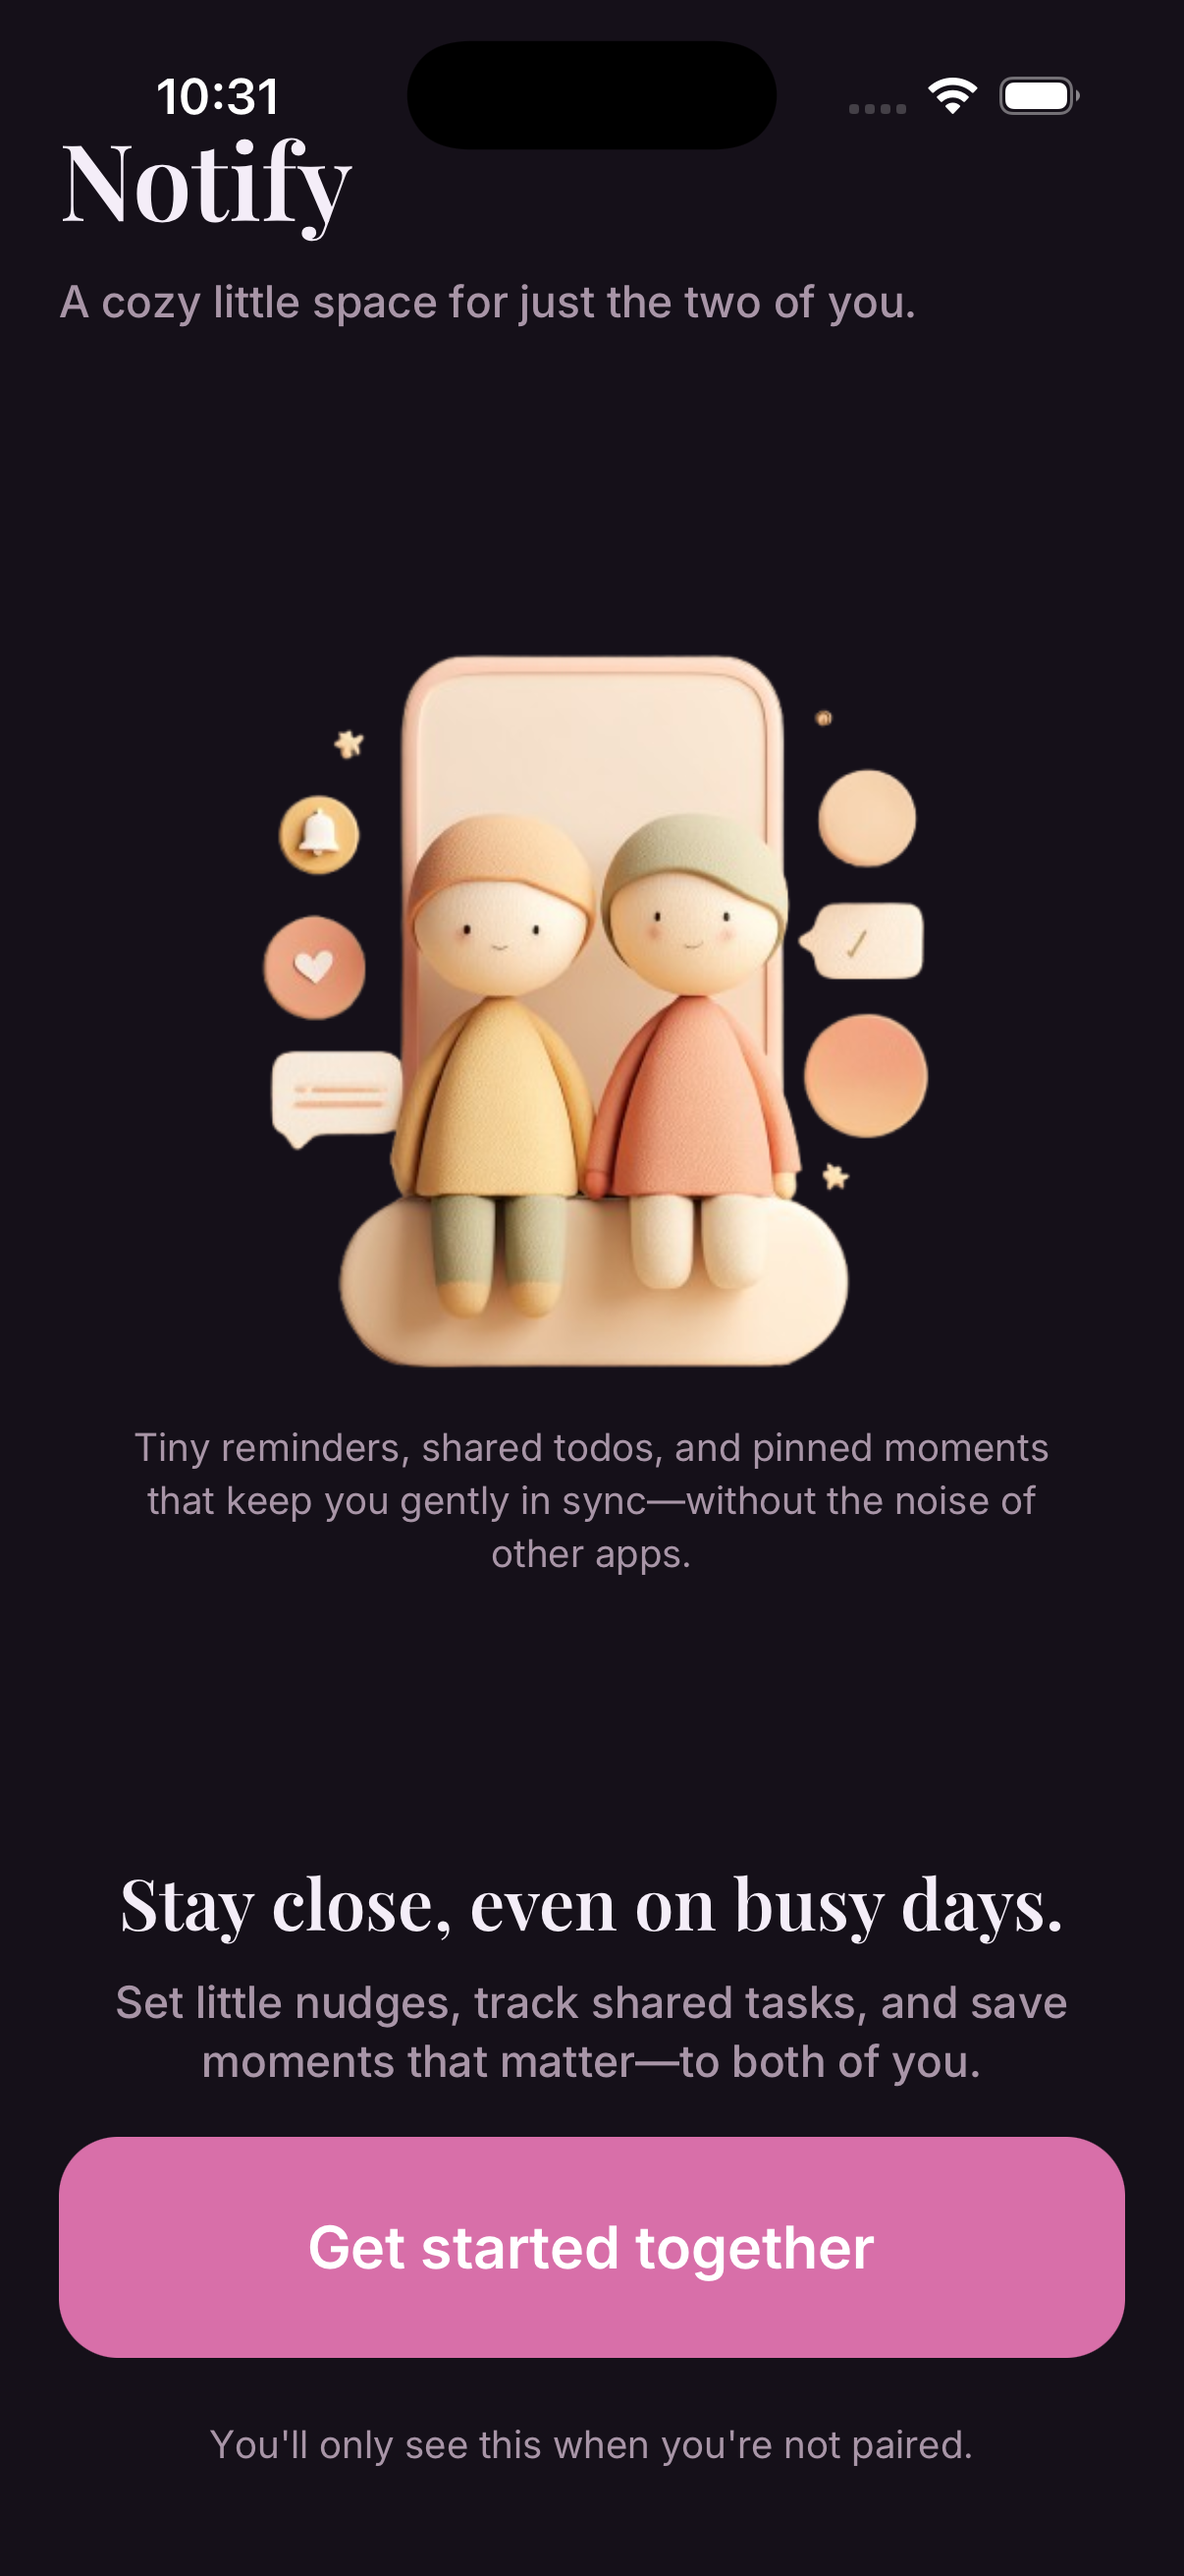
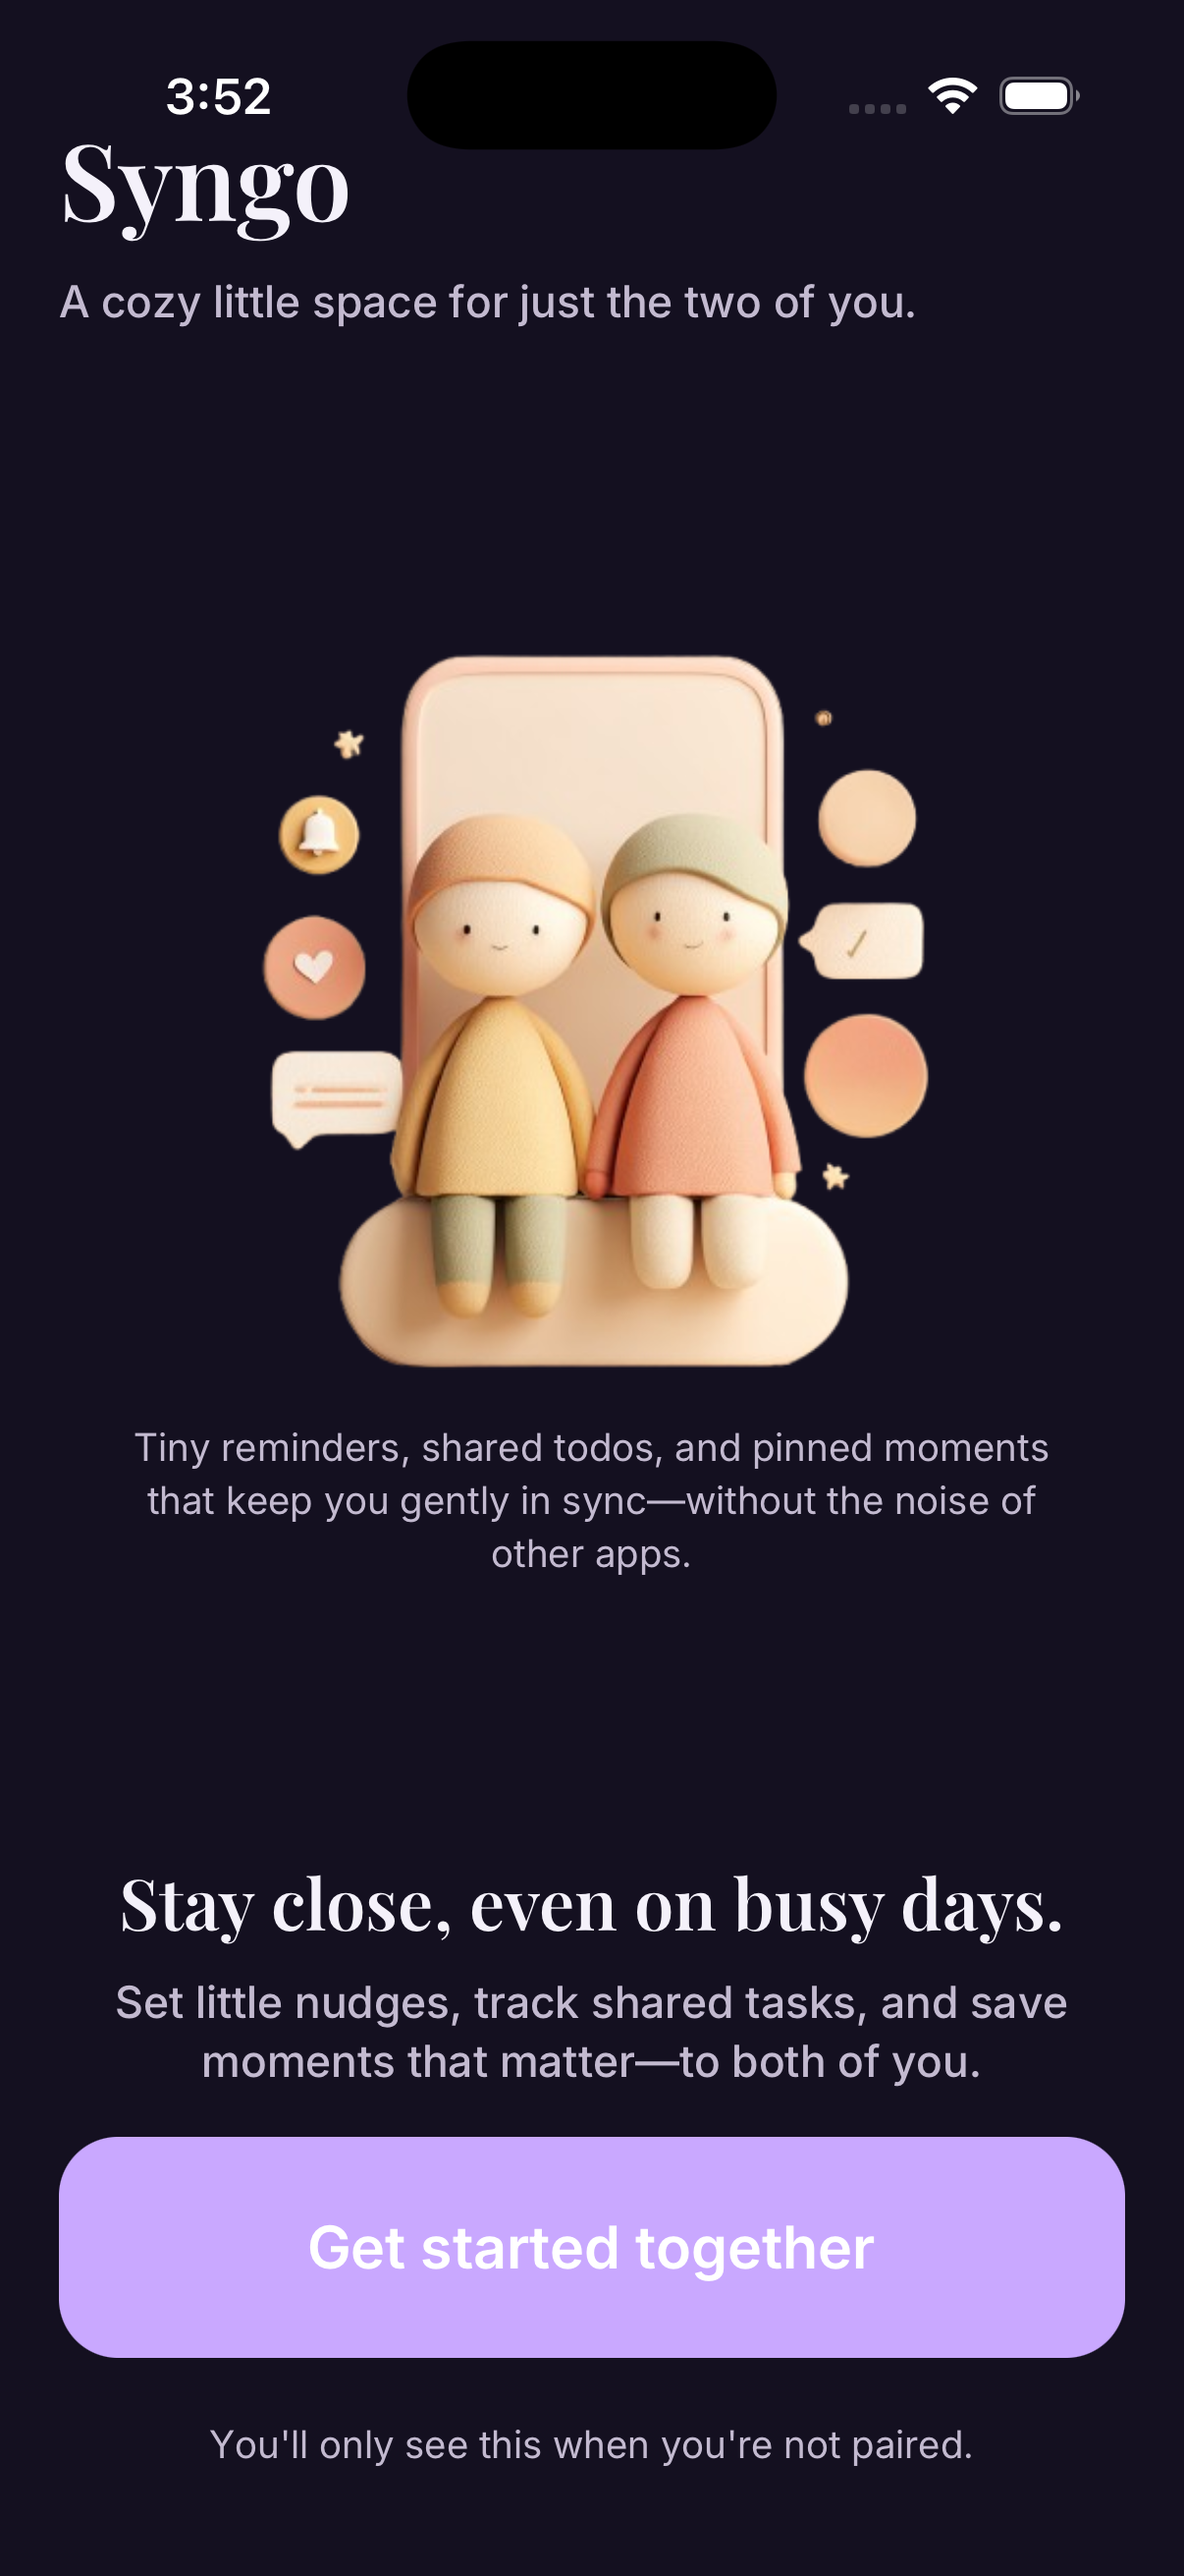
refactor: Rename app from Notify to Syngo, update related assets and text throughout the application

diff --git a/src/pages/Privacy.tsx b/src/pages/Privacy.tsx
@@ -10,9 +10,9 @@ export default function Privacy() {
           </p>
 
           <p>
-            Thank you for using <strong>Notify</strong> ("we", "us", or "our").
+            Thank you for using <strong>Syngo</strong> ("we", "us", or "our").
             This Privacy Policy explains how we collect, use, and protect your
-            information when you use the Notify mobile application (the "App").
+            information when you use the Syngo mobile application (the "App").
           </p>
 
           <p>
@@ -25,7 +25,7 @@ export default function Privacy() {
           </h2>
           <p>
             We collect the minimum information needed to provide the core
-            features of Notify.
+            features of Syngo.
           </p>
 
           <h3 className="text-2xl font-semibold mt-8 mb-3">
@@ -223,7 +223,7 @@ export default function Privacy() {
             6. Children's Privacy
           </h2>
           <p>
-            Notify is not directed to children under the age of 13, and we do
+            Syngo is not directed to children under the age of 13, and we do
             not knowingly collect personal information from children under 13.
             If you are a parent or guardian and believe that your child has
             provided us with personal information, please contact us so we can

diff --git a/src/pages/Support.tsx b/src/pages/Support.tsx
@@ -42,7 +42,7 @@ export default function Support() {
               <FileText className="w-8 h-8 text-primary mb-2" />
               <CardTitle>Documentation</CardTitle>
               <CardDescription>
-                Read our privacy policy and learn more about how Notify works.
+                Read our privacy policy and learn more about how Syngo works.
               </CardDescription>
             </CardHeader>
             <CardContent>
@@ -78,7 +78,7 @@ export default function Support() {
                 Can I pair with more than one person?
               </h3>
               <p className="text-gray-600">
-                Currently, Notify is designed for pairs only. You can unpair and
+                Currently, Syngo is designed for pairs only. You can unpair and
                 pair with someone else, but you can only be paired with one
                 person at a time.
               </p>
@@ -108,7 +108,7 @@ export default function Support() {
 
             <div>
               <h3 className="font-semibold text-lg mb-2">
-                Does Notify work offline?
+                Does Syngo work offline?
               </h3>
               <p className="text-gray-600">
                 Yes, you can view and create todos offline. Changes will sync

diff --git a/src/components/Hero.tsx b/src/components/Hero.tsx
@@ -36,7 +36,7 @@ export default function Hero() {
             </h1>
 
             <p className="text-base sm:text-lg text-muted-foreground mb-7 max-w-md">
-              Notify helps you and your favorite person stay in sync with shared
+              Syngo helps you and your favorite person stay in sync with shared
               todos, reminders, and small moments that matter. No feeds, no
               noise—just the two of you.
             </p>
@@ -48,7 +48,7 @@ export default function Hero() {
             </p>
 
             <div className="flex flex-wrap items-center gap-4 mb-3 mt-3">
-              <Button size="lg" className="gap-2">
+              <Button size="lg" variant="outline" className="gap-2">
                 <img src="/apple.svg" className="w-5 h-5" />
                 App Store
               </Button>
@@ -78,7 +78,7 @@ export default function Hero() {
                   {/* Replace with your actual screenshot */}
                   <img
                     src="/screens/onboarding.png"
-                    alt="Notify onboarding screen"
+                    alt="Syngo onboarding screen"
                     className="h-full w-full object-cover"
                   />
                 </div>

diff --git a/src/components/Footer.tsx b/src/components/Footer.tsx
@@ -8,8 +8,8 @@ export default function Footer() {
           {/* Brand */}
           <div className="col-span-1 md:col-span-2">
             <div className="flex items-center gap-2 mb-4">
-              <div className="w-8 h-8 bg-linear-to-br from-primary to-secondary rounded-lg" />
-              <span className="text-xl font-bold">Notify</span>
+            <img src="/icon.png" className="w-8 h-8 rounded-lg" />
+              <span className="text-xl font-bold">Syngo</span>
             </div>
             <p className="text-gray-600 max-w-sm">
               Stay in sync with your favorite person. Shared todos, reminders,
@@ -73,7 +73,7 @@ export default function Footer() {
         </div>
 
         <div className="mt-12 pt-8 border-t text-center text-gray-600 text-sm">
-          © {new Date().getFullYear()} Notify. All rights reserved.
+          © {new Date().getFullYear()} Syngo. All rights reserved.
         </div>
       </div>
     </footer>

diff --git a/index.html b/index.html
@@ -2,13 +2,13 @@
 <html lang="en">
   <head>
     <meta charset="UTF-8" />
-    <link rel="icon" type="image/svg+xml" href="/vite.svg" />
+    <link rel="icon" type="image/svg+xml" href="/icon.png" />
     <meta name="viewport" content="width=device-width, initial-scale=1.0" />
     <meta
       name="description"
       content="Stay in sync with your favorite person. Shared todos, reminders, and stickers for two."
     />
-    <title>Notify - Shared Todos for Couples</title>
+    <title>Syngo - Shared Todos for Couples</title>
     <link rel="preconnect" href="https://fonts.googleapis.com" />
     <link rel="preconnect" href="https://fonts.gstatic.com" crossorigin />
     <link

diff --git a/src/components/Header.tsx b/src/components/Header.tsx
@@ -11,8 +11,8 @@ export default function Header() {
         <div className="flex items-center justify-between h-16">
           {/* Logo */}
           <Link to="/" className="flex items-center gap-2">
-            <div className="w-8 h-8 bg-linear-to-br from-primary to-secondary rounded-lg" />
-            <span className="text-xl font-bold">Notify</span>
+            <img src="/icon.png" className="w-8 h-8 rounded-lg" />
+            <span className="text-xl font-bold">Syngo</span>
           </Link>
 
           {/* Desktop Nav */}

diff --git a/src/pages/EULA.tsx b/src/pages/EULA.tsx
@@ -13,8 +13,8 @@ export default function Eula() {
 
           <p>
             This End User License Agreement ("Agreement") is a legal agreement
-            between you ("User") and Notify ("Company", "we", "us") governing
-            your use of the Notify mobile application (the "App").
+            between you ("User") and Syngo ("Company", "we", "us") governing
+            your use of the Syngo mobile application (the "App").
           </p>
 
           <p>

diff --git a/src/index.css b/src/index.css
@@ -49,7 +49,7 @@
   --color-sidebar-ring: var(--sidebar-ring);
 }
 
-/* LIGHT THEME – Notify web landing */
+/* LIGHT THEME – Syngo web landing */
 :root {
   --radius: 0.625rem;
 
@@ -122,7 +122,7 @@
   --sidebar-ring: var(--ring);
 }
 
-/* DARK THEME – closer to Notify app’s dark indigo */
+/* DARK THEME – closer to Syngo app’s dark indigo */
 .dark {
   /* Dark background similar to app: #050816-ish */
   --background: oklch(0.18 0.04 260);

diff --git a/src/components/Screenshots.tsx b/src/components/Screenshots.tsx
@@ -55,7 +55,7 @@ export default function Screenshots() {
             From pairing to everyday moments
           </h2>
           <p className="text-base sm:text-lg text-muted-foreground">
-            Notify is designed as a simple journey. Pair once, then live in a
+            Syngo is designed as a simple journey. Pair once, then live in a
             shared space that quietly keeps you both on the same page.
           </p>
         </div>

diff --git a/src/components/CTA.tsx b/src/components/CTA.tsx
@@ -16,7 +16,7 @@ export default function CTA() {
             Start a shared space today
           </h2>
           <p className="text-xl text-white/90 mb-8 max-w-2xl mx-auto">
-            Download Notify and connect with your favorite person in seconds.
+            Download Syngo and connect with your favorite person in seconds.
           </p>
 
           <p className="text-xl font-bold text-white/90">
